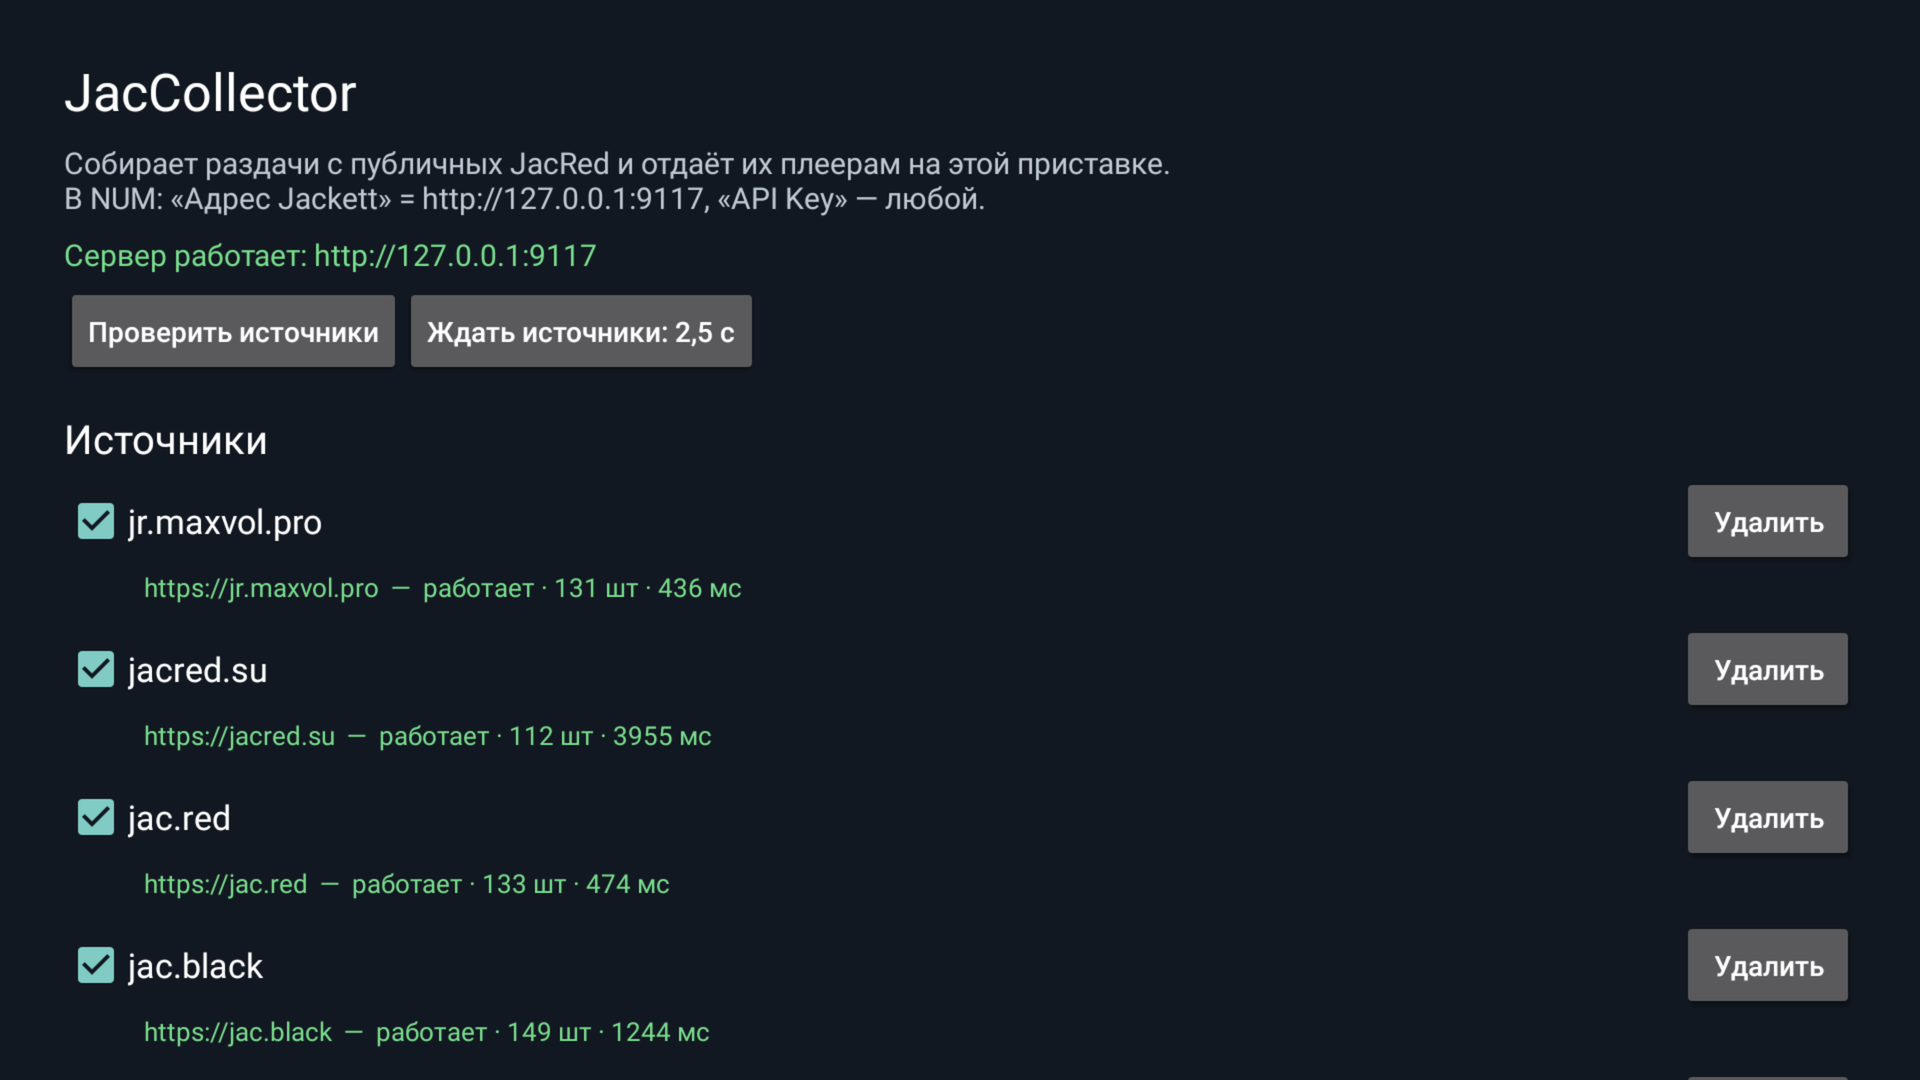
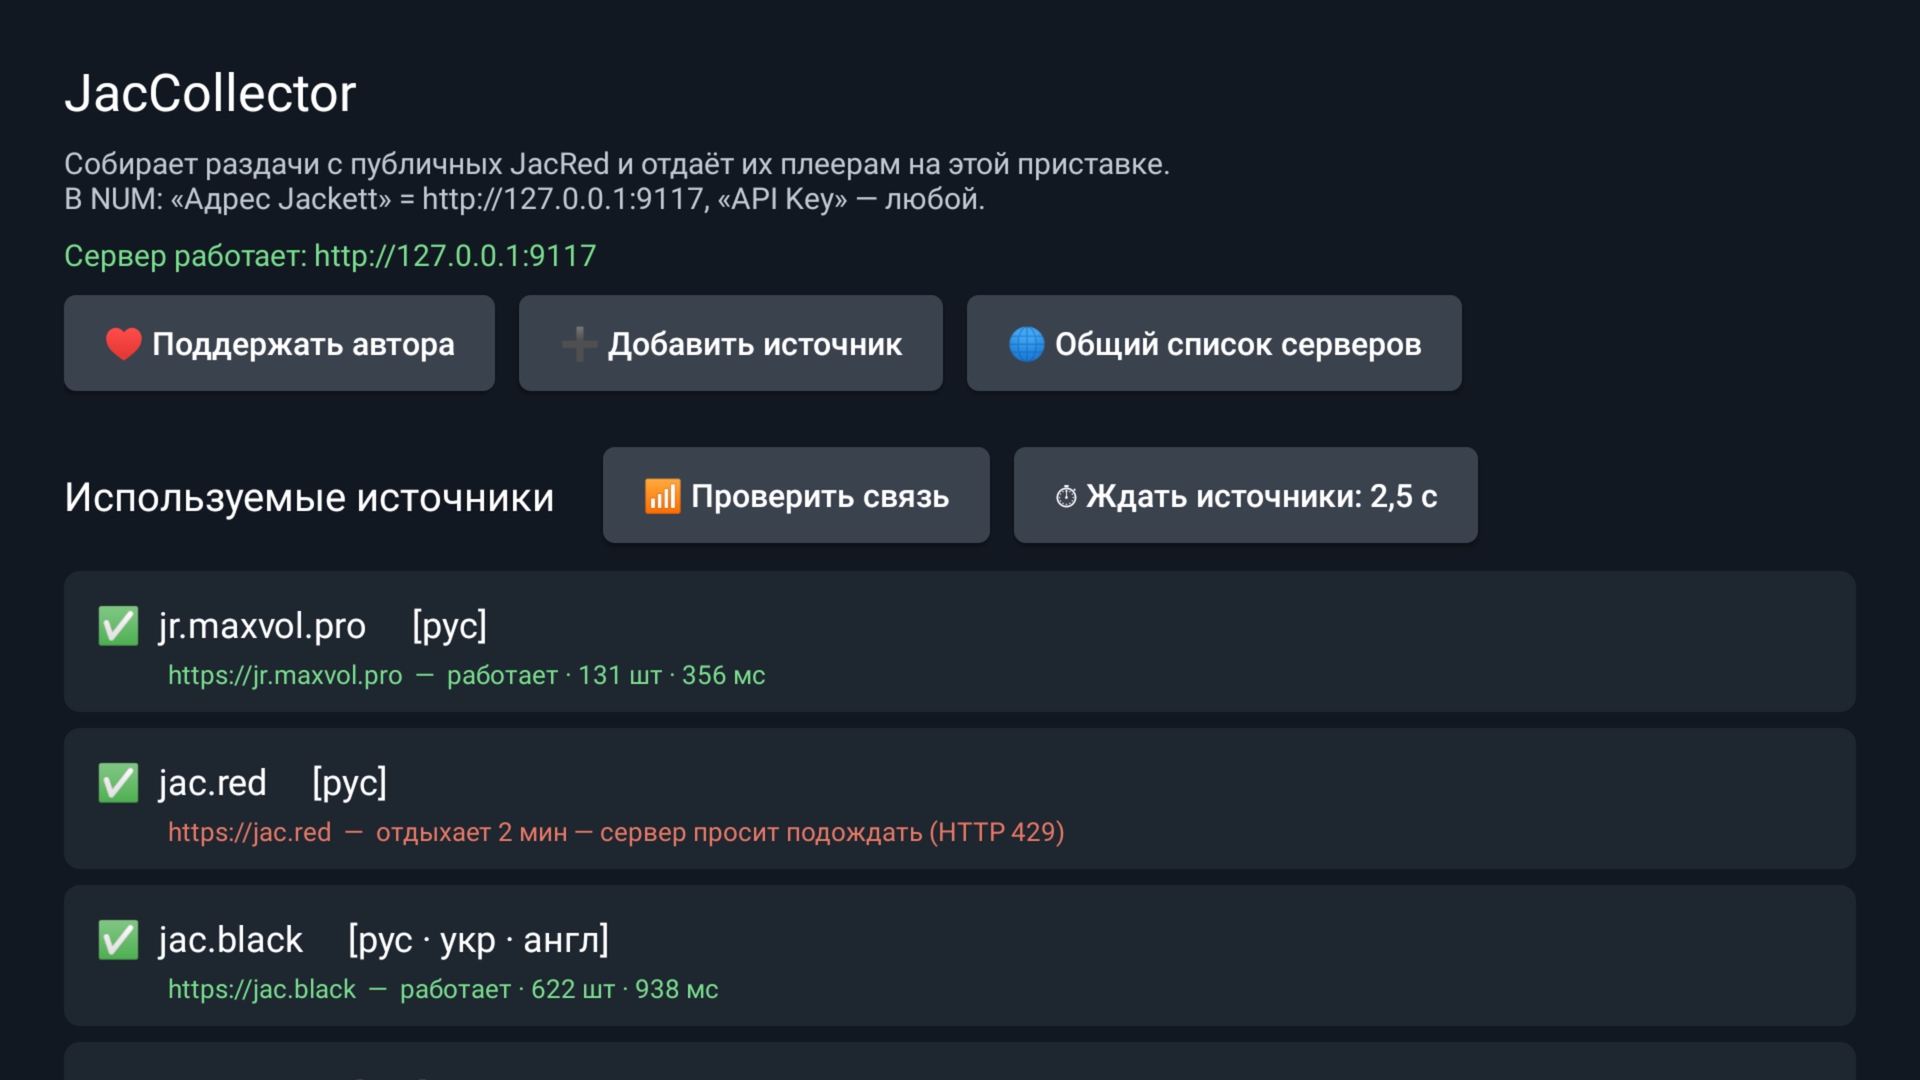
New screenshots for 1.1.0

diff --git a/README.md b/README.md
@@ -7,6 +7,12 @@ TorrServer.
 
 ![JacCollector на NVIDIA SHIELD](screenshots/main.png)
 
+| Серверы и настройки | Общий список серверов |
+|---|---|
+| ![Список серверов](screenshots/list.png) | ![Общий список](screenshots/shared-list.png) |
+| **Добавление источника** | **Поддержать автора** |
+| ![Добавить источник](screenshots/add.png) | ![Поддержать автора](screenshots/donate.png) |
+
 ## Зачем
 
 - **Быстро.** Свой Jackett ищет на трекерах «вживую» на каждый запрос (5–60 с). JacRed отдаёт
